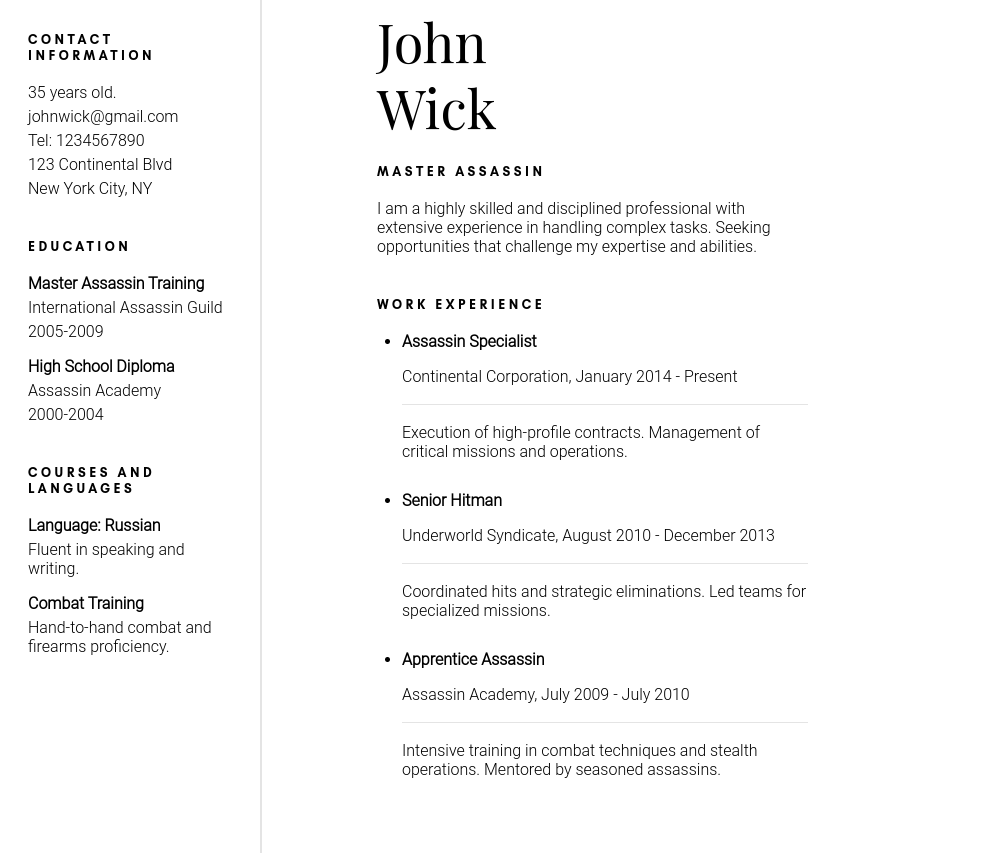
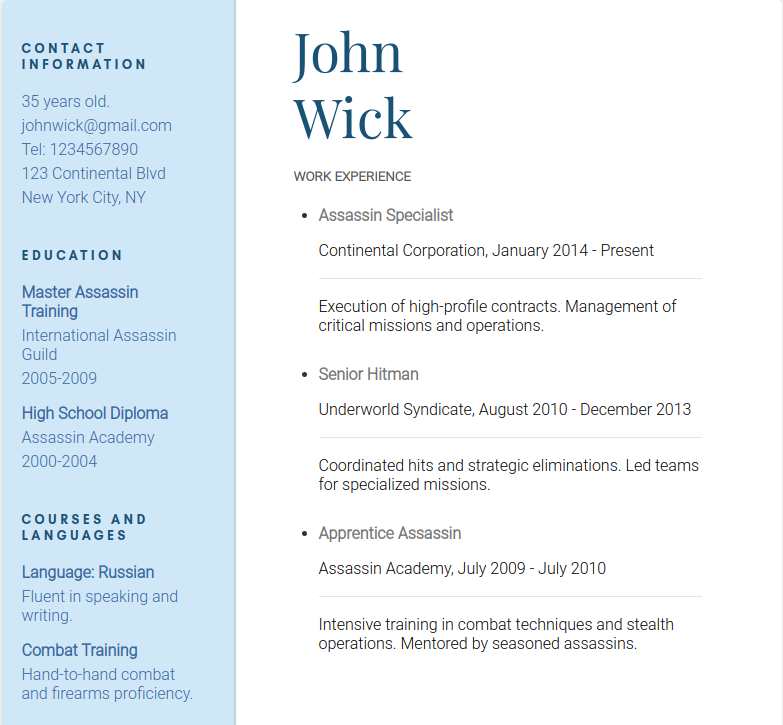
asdsa
asd

diff --git a/test.html b/test.html
@@ -1,24 +1,11 @@
-<!DOCTYPE html>
 <html>
   <head>
     <style>
+      @import url("https://fonts.cdnfonts.com/css/glacial-indifference-2");
+
       body {
         margin: 0;
         padding: 0;
-        font-family: "Roboto", sans-serif;
-        background-color: #f5f5f5; /* Fondo blanco */
-        color: #333; /* Color principal de texto */
-        padding-bottom: 100px; /* Padding al final del documento */
-      }
-
-      .container {
-        width: 780px;
-        margin: 0 auto;
-        overflow: hidden;
-        box-sizing: border-box;
-        background-color: #fff; /* Fondo blanco */
-        border-radius: 5px;
-        box-shadow: 0 0 10px rgba(0, 0, 0, 0.1); /* Sombra */
       }
 
       @page {
@@ -37,31 +24,54 @@
         margin-bottom: 20px;
       }
 
+      .container {
+        width: 780px;
+        margin: 0 auto;
+        box-sizing: border-box;
+      }
+
       .box-1 {
         width: 30%;
         float: left;
-        background-color: #cfe7f7; /* Azul claro */
-        height: 100vh; /* 100% de altura de la ventana */
-        padding-bottom: 100px; /* Padding al final */
-        padding-left: 20px;
+        height: 100%;
+        position: relative;
+        border-right: 2px solid #a6a6a64e;
+        padding-right: 37px;
+        box-sizing: border-box;
       }
 
       .box-2 {
         width: 60%;
         float: right;
+        height: 100%;
+        position: relative;
+        padding-left: 37px;
         box-sizing: border-box;
-        height: 1200px; /* Establece un alto fijo */
-        padding-left: 0px !important;
-        padding-right: 60px !important;
-        margin-right: 20px;
       }
 
       .subtitle {
         margin-bottom: 20px;
         margin-top: 40px;
+        font-family: "Glacial Indifference", sans-serif;
         letter-spacing: 3.5px;
         font-weight: bold;
-        color: #1a5276; /* Azul oscuro */
+      }
+
+      .img-profile {
+        width: 188px;
+        height: 188px;
+        border-radius: 50%;
+        margin-bottom: 15px;
+      }
+
+      .list-contact {
+        list-style: none;
+        padding-left: 0;
+        font-family: "Roboto", sans-serif;
+      }
+
+      .list-contact li {
+        margin-top: 5px;
       }
 
       h1 {
@@ -69,21 +79,11 @@
         line-height: 30px;
         font-family: "Playfair Display", serif;
         font-weight: 100;
-        color: #1a5276; /* Azul oscuro */
-      }
-
-      .list-contact {
-        list-style: none;
-        padding-left: 0;
-      }
-
-      .list-contact li {
-        margin-top: 5px;
-        color: #3a679d; /* Azul medio */
       }
 
       .list-experience {
         padding-left: 25px;
+        font-family: "Roboto", sans-serif;
       }
 
       .separator,
@@ -91,19 +91,6 @@
         margin: 18px 0;
         border: none;
         border-top: 1px solid #a6a6a64e;
-      }
-
-      /* Nuevos estilos para los t&Atilde;&shy;tulos, subt&Atilde;&shy;tulos y textos de "WORK EXPERIENCE" */
-      .work-experience-title {
-        color: #555; /* Color gris oscuro para el t&Atilde;&shy;tulo de "WORK EXPERIENCE" */
-      }
-
-      .work-experience-subtitle {
-        color: #777; /* Color gris medio para los subt&Atilde;&shy;tulos dentro de "WORK EXPERIENCE" */
-      }
-
-      .work-experience-text {
-        color: #000; /* Color gris claro para los textos dentro de "WORK EXPERIENCE" */
       }
     </style>
     <title>John Wick's Resume</title>
@@ -163,8 +150,8 @@
         </ul>
       </div>
       <div class="box-2">
-        <h1>El</h1>
-        <h1>Massi</h1>
+        <h1>John</h1>
+        <h1>Wick</h1>
         <h5 class="work-experience-title">WORK EXPERIENCE</h5>
         <ul class="list-experience">
           <li>
